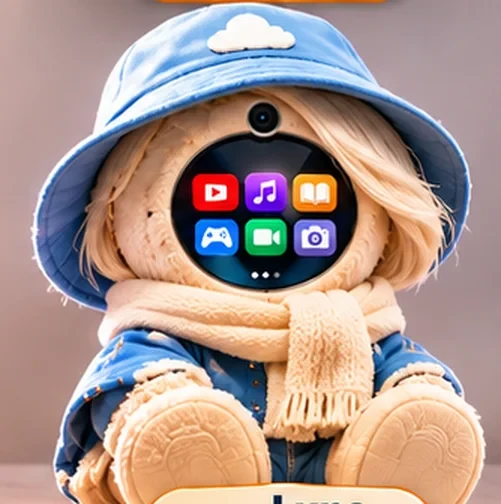
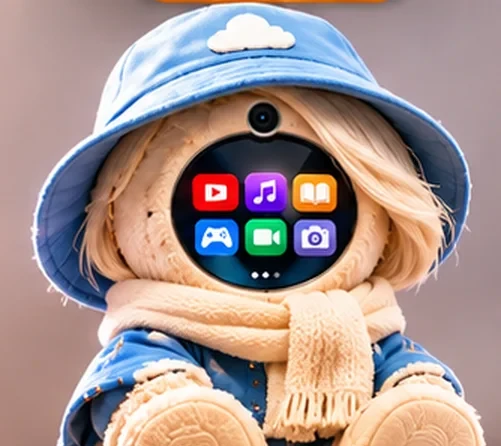
Accueil : recadrage du portrait de Luna
Claude-Session: https://claude.ai/code/session_01HmDuQk4B4SV72sDjzPNSac

diff --git a/beyabears/index.html b/beyabears/index.html
@@ -14,7 +14,7 @@
 <meta name="apple-mobile-web-app-status-bar-style" content="default">
 <link rel="stylesheet" href="https://fonts.googleapis.com/css2?family=Lato:wght@400;700;900&family=Plus+Jakarta+Sans:wght@500;700;800&display=swap">
 <link rel="preload" as="image" href="mascottes.jpg?v=5">
-<link rel="stylesheet" href="style.css?v=11261300">
+<link rel="stylesheet" href="style.css?v=11261305">
 <body>
 <!-- La page de présentation n'est plus affichée : cette adresse ouvre directement l'application. -->
 <div id="landing">
@@ -103,7 +103,7 @@
 <main>
   <section class="stage" id="stage" aria-label="BeyaBear’s">
     <div class="plushBox">
-      <img class="plush" src="ourson.webp?v=11261300" alt="Ourson BeyaBear’s en casquette marine et casque audio, sous le logo, avec son écran rond au milieu du visage">
+      <img class="plush" src="ourson.webp?v=11261305" alt="Ourson BeyaBear’s en casquette marine et casque audio, sous le logo, avec son écran rond au milieu du visage">
       <div class="eye" id="eye" role="button" tabindex="0" aria-label="Œil de BeyaBear’s : ouvrir le menu">
         <div class="iris" id="iris" role="img" aria-label="Iris de BeyaBear’s"></div>
         <div class="screen" id="screen"></div>
@@ -117,19 +117,19 @@
 
 <footer class="foot"><b>BeyaBear’s</b><span>Démonstration de l’œil · © 2026</span></footer>
 <div id="toast" role="status"></div>
-<script src="qr.js?v=11261300"></script>
-<script src="paroles.js?v=11261300"></script>
-<script src="langue.js?v=11261300"></script>
-<script src="voix/liste.js?v=11261300"></script>
-<script src="jeux.js?v=11261300"></script>
-<script src="labo.js?v=11261300"></script>
-<script src="histoires.js?v=11261300"></script>
-<script src="boutique.js?v=11261300"></script>
-<script src="ecole.js?v=11261300"></script>
-<script src="securite.js?v=11261300"></script>
-<script src="app.js?v=11261300"></script>
-<script src="clavier.js?v=11261300"></script>
-<script src="accueil.js?v=11261300"></script>
-<script src="traduire.js?v=11261300"></script>
+<script src="qr.js?v=11261305"></script>
+<script src="paroles.js?v=11261305"></script>
+<script src="langue.js?v=11261305"></script>
+<script src="voix/liste.js?v=11261305"></script>
+<script src="jeux.js?v=11261305"></script>
+<script src="labo.js?v=11261305"></script>
+<script src="histoires.js?v=11261305"></script>
+<script src="boutique.js?v=11261305"></script>
+<script src="ecole.js?v=11261305"></script>
+<script src="securite.js?v=11261305"></script>
+<script src="app.js?v=11261305"></script>
+<script src="clavier.js?v=11261305"></script>
+<script src="accueil.js?v=11261305"></script>
+<script src="traduire.js?v=11261305"></script>
 </body>
 </html>

diff --git a/beyabears/boutique.js b/beyabears/boutique.js
@@ -260,7 +260,7 @@ function homeMore() {
 }
 // Grande scène d'ouverture : Luna ouvre l'œil (vidéo de la paupière jouée dans son œil).
 const wakeLine = () => { const h = new Date().getHours(); return h < 6 || h >= 21 ? ['Chut… c’est l’heure des rêves', 'Luna ferme l’œil avec toi.'] : h < 12 ? ['Coucou, bien dormi ?', 'Luna ouvre l’œil avec toi.'] : ['Coucou, on joue ?', 'Luna garde l’œil ouvert pour toi.']; };
-const homeHero = () => `<button type="button" class="wake" data-wake aria-label="Luna"><span class="wakeStars"></span><span class="wakePic"><img src="dodo/luna.webp" alt="" width="501" height="504"><video autoplay muted loop playsinline preload="auto" poster="dodo/paupiere.jpg"><source src="dodo/paupiere.mp4" type="video/mp4"></video></span><span class="wakeTxt"><b>${wakeLine()[0]}</b><small>${wakeLine()[1]}</small><em>Touche son œil</em></span></button>
+const homeHero = () => `<button type="button" class="wake" data-wake aria-label="Luna"><span class="wakeStars"></span><span class="wakePic"><img src="dodo/luna.webp" alt="" width="501" height="446"><video autoplay muted loop playsinline preload="auto" poster="dodo/paupiere.jpg"><source src="dodo/paupiere.mp4" type="video/mp4"></video></span><span class="wakeTxt"><b>${wakeLine()[0]}</b><small>${wakeLine()[1]}</small><em>Touche son œil</em></span></button>
   <div class="hero"><button type="button" class="heroFace" data-poke aria-label="Toucher BeyaBear’s"><img src="emo/joie.webp" alt="" width="120" height="120"></button>
   <div><h2 class="hello">${homeHello()}</h2><p class="bubble" id="bubble">Touche-moi, je réagis !</p></div></div>`;
 document.addEventListener('click', (event) => {

diff --git a/beyabears/style.css b/beyabears/style.css
@@ -1229,3 +1229,4 @@ body:not(.landing):not(.kiosk):not(.guest) > main { padding-bottom: calc(124px +
 @media (prefers-reduced-motion: reduce) { .wake, .wakeStars, .wakeTxt em { animation: none; } }
 /* Accueil : c'est Luna qui ouvre l'œil (Zoé reste sur le site) */
 .wakePic video { left: 33.56%; top: 25.70%; width: 38.67%; height: 35.20%; }
+.wakePic video { left: 33.56%; top: 29.04%; width: 38.67%; height: 39.78%; }
